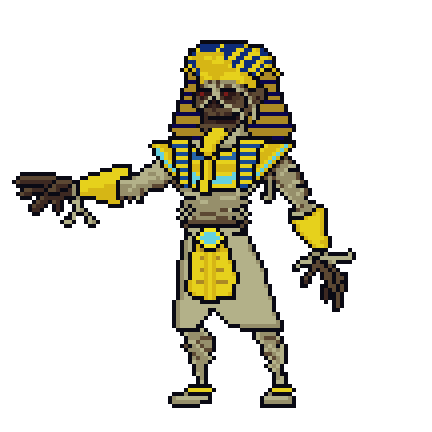
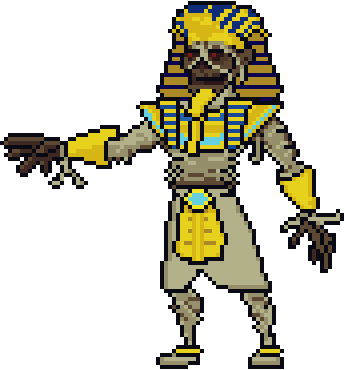
Sand level bosses animation complete

diff --git a/src/bosses/KingMummyBoss.py b/src/bosses/KingMummyBoss.py
@@ -7,7 +7,7 @@ from src.resources import *
 
 class KingMummyBoss(BaseBoss):
     def __init__(self, x, y, health=300, damage=10):
-        super().__init__(x, y, width=50, height=80, health=health, damage=damage)
+        super().__init__(x, y, width=60, height=80, health=health, damage=damage)
         self.animation = sprite_collection["king_mummy_boss"].animation
         self.visible = True
         self.direction = "left"
@@ -21,6 +21,7 @@ class KingMummyBoss(BaseBoss):
         self.blink_interval = 0.25
         self.revive_duration = 3
         self.original_health = self.health
+        self.revive_image = sprite_collection["king_mummy_dead"].image
         
         # Attack properties
         self.platforms = None
@@ -30,7 +31,7 @@ class KingMummyBoss(BaseBoss):
         self.bandage_timer = 0
         self.num_bandages = 10
         self.bandage_width = 40
-        self.bandage_height = 10
+        self.bandage_height = 20
         
         # Jump attack properties
         self.move_speed = 75
@@ -55,6 +56,11 @@ class KingMummyBoss(BaseBoss):
         self.platforms = platforms
         
         self.jump_cooldown_timer += dt
+        
+        if self.current_attack == self.cursed_speed:
+            self.jump_cooldown = 1.5
+        else:
+            self.jump_cooldown = 3
         
         if self.current_attack:
             self.animation.update(dt)
@@ -131,6 +137,15 @@ class KingMummyBoss(BaseBoss):
         """Make the boss invulnerable and blink during revival."""
         self.revive_timer += dt
         self.blink_timer += dt
+        
+        if self.revive_timer / self.revive_duration >= 0.8:
+            self.revive_image = sprite_collection["king_mummy_revive"].image
+            self.rect.width = 80
+            self.width = 80
+        else:
+            self.revive_image = sprite_collection["king_mummy_dead"].image
+            self.rect.width = 50
+            self.width = 50
 
         if self.blink_timer >= self.blink_interval:
             self.visible = not self.visible
@@ -141,6 +156,8 @@ class KingMummyBoss(BaseBoss):
             self.invulnerable = False
             self.visible = True
             self.health = self.original_health
+            self.rect.width = 60
+            self.width = 60
             
     def cursed_wrappings(self, dt, player):
         """Spawns bandages with a blinking appearance phase."""
@@ -157,7 +174,7 @@ class KingMummyBoss(BaseBoss):
         for _ in range(min(num_platform_bandages, len(platform_rects))):
             platform_rect = random.choice(platform_rects)
             x = random.randint(platform_rect.x, platform_rect.x + platform_rect.width - self.bandage_width)
-            y = platform_rect.y
+            y = platform_rect.y - 10
             bandage = Bandage(x, y, self.bandage_width, self.bandage_height, damage=self.damage)
             self.bandages.append(bandage)
 
@@ -201,11 +218,21 @@ class KingMummyBoss(BaseBoss):
     def render(self, screen):
         if self.alive:
             if self.visible:
-                char_img = self.animation.image
-                char_img = pygame.transform.scale(char_img, (self.rect.width, self.rect.height))
+                if self.reviving:
+                    char_img = self.revive_image
+                else:
+                    char_img = self.animation.image
+                    
+                if self.current_attack:
+                    offset = 20
+                else:
+                    offset = 0
+                char_img = pygame.transform.scale(char_img, (self.rect.width + offset, self.rect.height))
                 if self.direction == "right":
                     char_img = pygame.transform.flip(char_img, True, False)
-                screen.blit(char_img, (self.x, self.y))
+                    screen.blit(char_img, (self.x, self.y))
+                else:
+                    screen.blit(char_img, (self.x - offset, self.y))
             for bandage in self.bandages:
                 bandage.render(screen)
 
@@ -218,8 +245,10 @@ class Bandage:
         self.blink_interval = blink_interval
         self.visible = False
         self.damage = damage
+        self.animation = sprite_collection["king_mummy_cursed_wrapping"].animation
 
     def update(self, dt):
+        self.animation.update(dt)
         if not self.active:
             self.appearance_timer -= dt
             self.blink_timer += dt
@@ -231,4 +260,6 @@ class Bandage:
                 self.visible = True
 
     def render(self, screen):
-        pygame.draw.rect(screen, (150, 75, 0), self.rect)
+        img = self.animation.image
+        img = pygame.transform.scale(img, (self.rect.width, self.rect.height))
+        screen.blit(img, (self.rect.x, self.rect.y))

diff --git a/src/bosses/SandWormBoss.py b/src/bosses/SandWormBoss.py
@@ -23,11 +23,12 @@ class SandWormBoss(BaseBoss):
         self.shockwave_effect_duration = 0.3
         self.shockwave_effect_time = 0
         self.shockwave_effect_isVisible = False
-        self.shockwave_effect_rect = pygame.Rect(self.x + self.width / 2 - self.shockwave_distance, GROUND_LEVEL_Y, self.shockwave_distance * 2, 20)
+        self.shockwave_effect_rect = pygame.Rect(self.x + self.width / 2 - self.shockwave_distance, GROUND_LEVEL_Y, self.shockwave_distance * 2, 50)
         self.bullet_layer_num = 5
         self.bullet_angle = 150
         self.cone_starting_angle = 0
         self.cone_starting_angle_random_shift_max = 90
+        self.shockwave_effect_animation = sprite_collection["sandworm_boss_shockwave_effect"].animation
         
         # Dash attack prop
         self.dash_attack_duration = 3
@@ -52,8 +53,10 @@ class SandWormBoss(BaseBoss):
         # Update effect duration
         if self.shockwave_effect_isVisible:
             self.shockwave_effect_time += dt
+            self.shockwave_effect_animation.update(dt)
             if self.shockwave_effect_time >= self.shockwave_effect_duration:
                 self.shockwave_effect_isVisible = False  # Hide effect after duration
+                self.shockwave_effect_animation.Refresh()
                 
         if self.current_attack == self.shockwave and self.warning_time_timer >= 0:
             self.animation = sprite_collection["sandworm_boss_shockwave"].animation
@@ -64,8 +67,8 @@ class SandWormBoss(BaseBoss):
         self.animation.update(dt)
 
     def select_attack(self, player):
-        # attack_choice = random.choice(["sand_bullet", "shockwave", "dash"])
-        attack_choice = random.choice(["sand_bullet"])
+        attack_choice = random.choice(["sand_bullet", "shockwave", "dash"])
+        # attack_choice = random.choice(["sand_bullet"])
 
         if attack_choice == "sand_bullet":
             self.current_attack = self.sand_bullet
@@ -95,7 +98,7 @@ class SandWormBoss(BaseBoss):
         bullet.height = bullet_height
         bullet.rect.width = bullet_width
         bullet.rect.height = bullet_height
-        bullet.re_initialize()
+        bullet.set_image(sprite_collection["sandworm_bullet1"].image)
         self.bullets.append(bullet)
         
         sprite_collection["sandworm_boss_sand_bullet"].animation.Refresh()
@@ -122,6 +125,7 @@ class SandWormBoss(BaseBoss):
         bullet_y = self.y + (self.height // 2)  # Start bullet at the center height of the boss
         for i in range(self.bullet_layer_num):
             bullet = BossBullet(bullet_x, bullet_y, bullet_direction, self.cone_starting_angle - (self.bullet_angle * self.bullet_layer_num / 2) + (self.bullet_angle*i), damage=self.damage)  # Create a bullet
+            bullet.set_image(sprite_collection["sandworm_bullet2"].image)
             self.bullets.append(bullet)  # Add bullet to the list
             
         sprite_collection["sandworm_boss_shockwave"].animation.Refresh()
@@ -141,7 +145,7 @@ class SandWormBoss(BaseBoss):
         t = self.attack_elapsed_time / self.dash_attack_duration
 
         max_height = self.original_height
-        min_height = 200
+        min_height = 100
         if t <= 0.2:
             self.height = min_height
             self.y = HEIGHT - min_height
@@ -197,4 +201,6 @@ class SandWormBoss(BaseBoss):
         
         # Render shockwave effect if visible
         if self.shockwave_effect_isVisible:
-            pygame.draw.rect(screen, (255, 0, 0), self.shockwave_effect_rect)
+            img = sprite_collection["sandworm_boss_shockwave_effect"].animation.image
+            img = pygame.transform.scale(img, (self.shockwave_effect_rect.width, self.shockwave_effect_rect.height))
+            screen.blit(img, (self.shockwave_effect_rect.x, self.shockwave_effect_rect.y))

diff --git a/src/bosses/BossBullet.py b/src/bosses/BossBullet.py
@@ -12,7 +12,7 @@ class BossBullet(Bullet):
         self.speed_y = dy
         self.color = (255, 0, 0)
         self.damage = 10
-        self.image = sprite_collection["sandworm_bullet"].image
+        self.image = sprite_collection["sandworm_bullet1"].image
         
         self.angle = self.calculate_angle()
         self.rotated_image = pygame.transform.rotate(self.image, -self.angle)
@@ -23,7 +23,13 @@ class BossBullet(Bullet):
         self.angle = self.calculate_angle()
         self.rotated_image = pygame.transform.rotate(self.image, -self.angle)
         self.rect = self.rotated_image.get_rect(center=(self.x, self.y))
-        print(self.angle)
+    
+    def set_image(self, image):
+        self.image = image
+        self.image = pygame.transform.scale(self.image, (self.width, self.height))
+        self.angle = self.calculate_angle()
+        self.rotated_image = pygame.transform.rotate(self.image, -self.angle)
+        self.rect = self.rotated_image.get_rect(center=(self.x, self.y))
         
     def calculate_angle(self):
         """Calculate the rotation angle based on dx and dy speeds."""

diff --git a/src/Util.py b/src/Util.py
@@ -96,6 +96,7 @@ class SpriteManager:
                 "./sprite/King/KingFireShotgun.json",
                 "./sprite/King/KingSelectMap.json",
                 "./sprite/Bosses/KingMummy.json",
+                "./sprite/Bosses/KingMummyImage.json",
                 "./sprite/Bosses/BlackWidow.json",
                 "./sprite/Bosses/Medusa.json",
                 "./sprite/Bosses/SandWorm.json",
